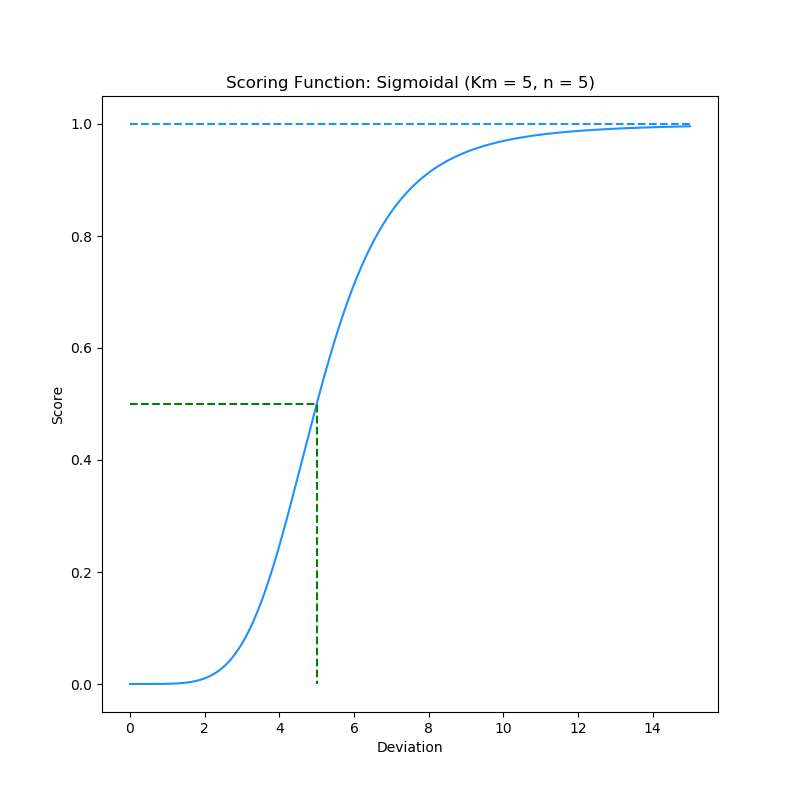
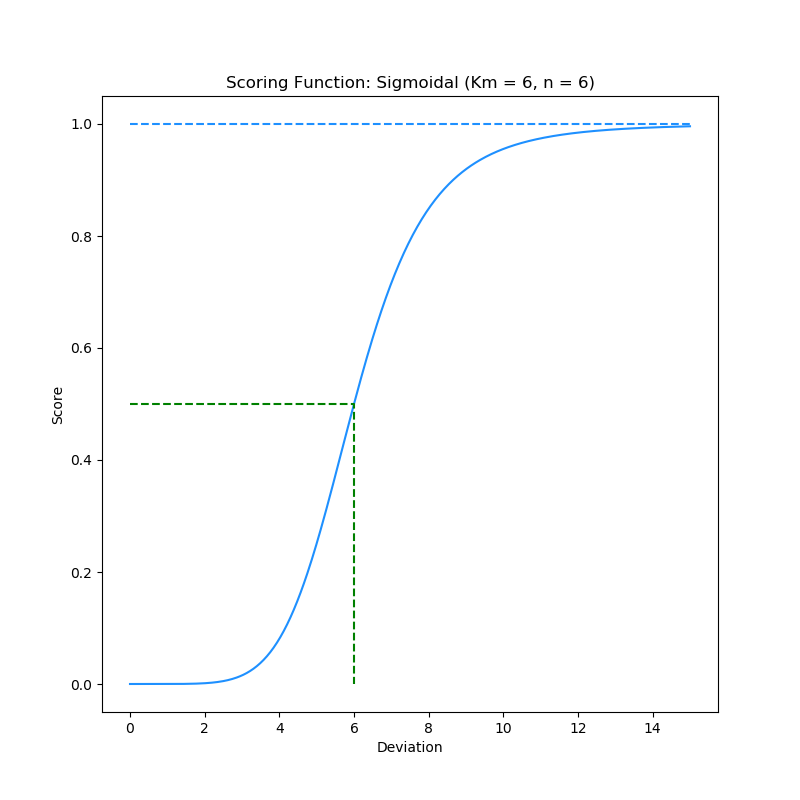
no message

diff --git a/algorithm_visualization.py b/algorithm_visualization.py
@@ -12,16 +12,18 @@ poi_1 = 370
 
 
 outloc = r'C:\Users\rsjon_000\Documents\point-disorder\point_disorder_paper\figures\neighborhood_generation.png'
-outloc2 = r'C:\Users\rsjon_000\Documents\point-disorder\point_disorder_paper\figures\scoring_func.png'
-outloc3 = r'C:\Users\rsjon_000\Documents\point-disorder\point_disorder_paper\figures\TESTTEST.png'
 
 params = {'neighbor_search_dist': 45,
-          'ka': 5,
-          'coop': 5,
+          'ka': 6,
+          'coop': 6,
           'punishment': 1,
           'punish_out_of_hull': False,
           'euc': False,
           'reorientation': 10e-3}
+
+outloc2 = f'C:\\Users\\rsjon_000\\Documents\\point-disorder\\point_disorder_paper\\figures\\' \
+          f'scoring_func.png'
+
 neighb_num = 43
 
 distance_metric1 = 'euclidean'
@@ -45,6 +47,7 @@ neighbors = compose_neighborhoods(total, params['neighbor_search_dist'])
 poi_2 = neighbors[poi_1]['neighbors'][neighb_num]
 
 fig, ax = plt.subplots(2, 2, figsize=(8, 8))
+scores = []
 
 ax[0][0].scatter(total[:,0], total[:,1], color='gold', edgecolors='black')
 ax[0][0].scatter(total[poi_1,0], total[poi_1,1], color='red', edgecolors='black')
@@ -90,10 +93,12 @@ for (pax,pay), distance_metric in zip(plot_positions, d_mecs):
     n_unpaired = len(unpaired_cords)
     n_unpaired_in_hull = len(unpaired_cords_in_hull)
     deviations = [distance(p, s2[assignment[i]]) for i, p in enumerate(s1)]
-    if distance_metric is not 'euclidean':
-        scored_vals = [distance_metric(p, s2[assignment[i]]) for i, p in enumerate(s1)]
+    if True:
+        scored_vals = [distance_metric2(p, s2[assignment[i]]) for i, p in enumerate(s1)]
     else:
         scored_vals = deviations
+
+    scores.append(np.mean(scored_vals))
 
     for simplex in hull.simplices:
         ax[pax][pay].plot(assigned_coords[simplex, 0], assigned_coords[simplex, 1], 'k-', color='green', lw=2)
@@ -104,8 +109,10 @@ for (pax,pay), distance_metric in zip(plot_positions, d_mecs):
     ax[pax][pay].set_aspect('equal')
 
 ax[0][0].set_title('Neighborhoods')
-ax[0][1].set_title('Euclidean registration')
-ax[1][0].set_title('Alternative registration')
+ax[0][1].set_title('Euclidean registration\n'
+                   f'Score: {round(np.mean(scores[0]),3)}')
+ax[1][0].set_title('Alternative registration\n'
+                   f'Score: {round(np.mean(scores[1]),3)}')
 
 """
 ax[1][1].scatter(set_1[:, 0], set_1[:, 1], color='red', edgecolors='black')
@@ -165,7 +172,6 @@ C[:, 0:2] = np.copy(set_2)
 set_2_readj = np.dot(t, C.T).T
 ## END ICP REALIGNMENT
 
-ax[1][1].set_title(f'ICP realignment + alternative registration')
 ax[1][1].scatter(set_1[:,0], set_1[:,1], color='red', edgecolors='black')
 ax[1][1].scatter(set_2_readj[:,0], set_2_readj[:,1], color='blue', edgecolors='black')
 ax[1][1].set_aspect('equal')
@@ -215,6 +221,8 @@ for simplex in hull.simplices:
 for p in range(min([len(s1), len(s2)])):
     ax[pax][pay].plot([s1[p, 0], s2[assignment[p], 0]], [s1[p, 1], s2[assignment[p], 1]], 'k')
 
+ax[1][1].set_title(f'ICP realignment + alternative registration\n'
+                   f'Score: {round(np.mean(scored_vals),3)}')
 ax[pax][pay].set_aspect('equal')
 
 plt.tight_layout()
